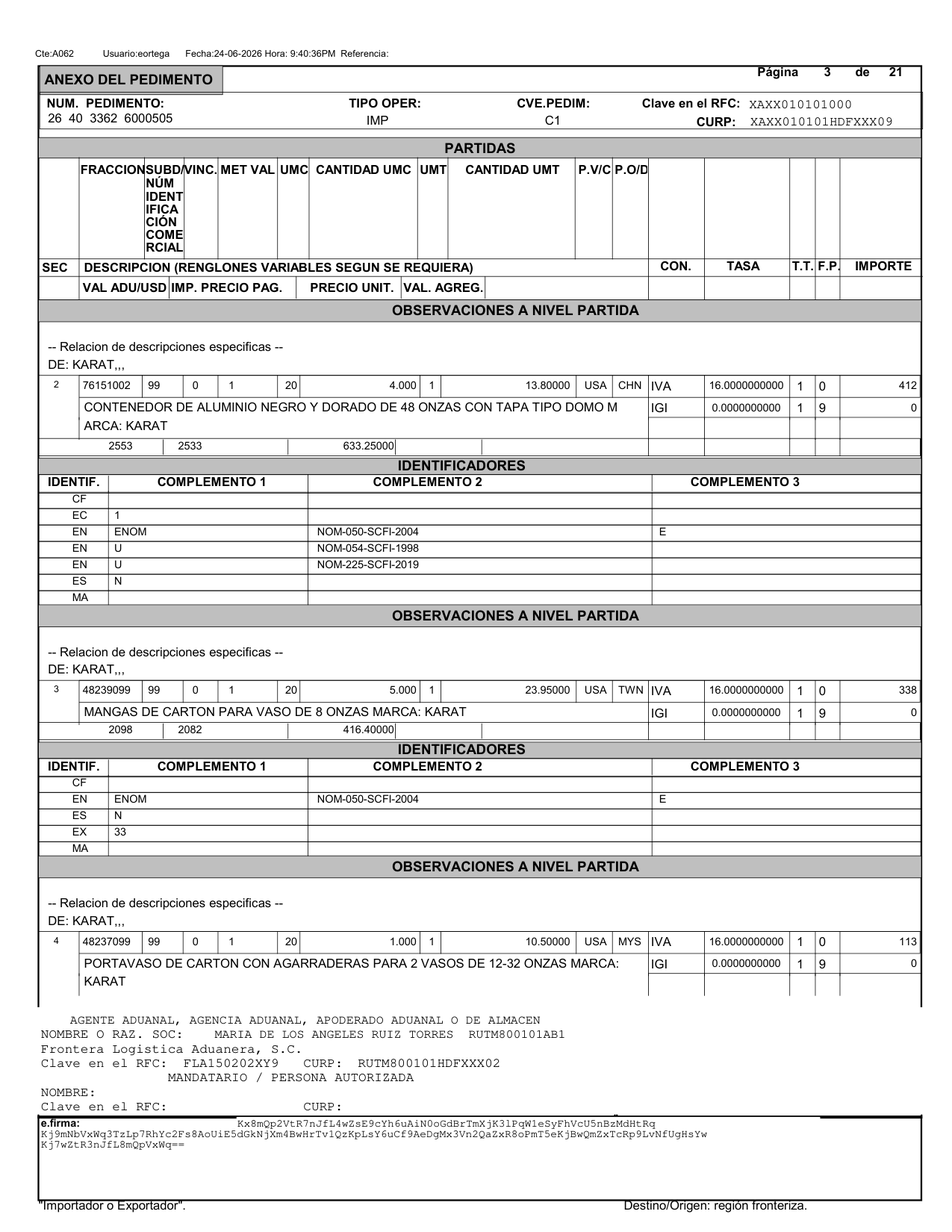
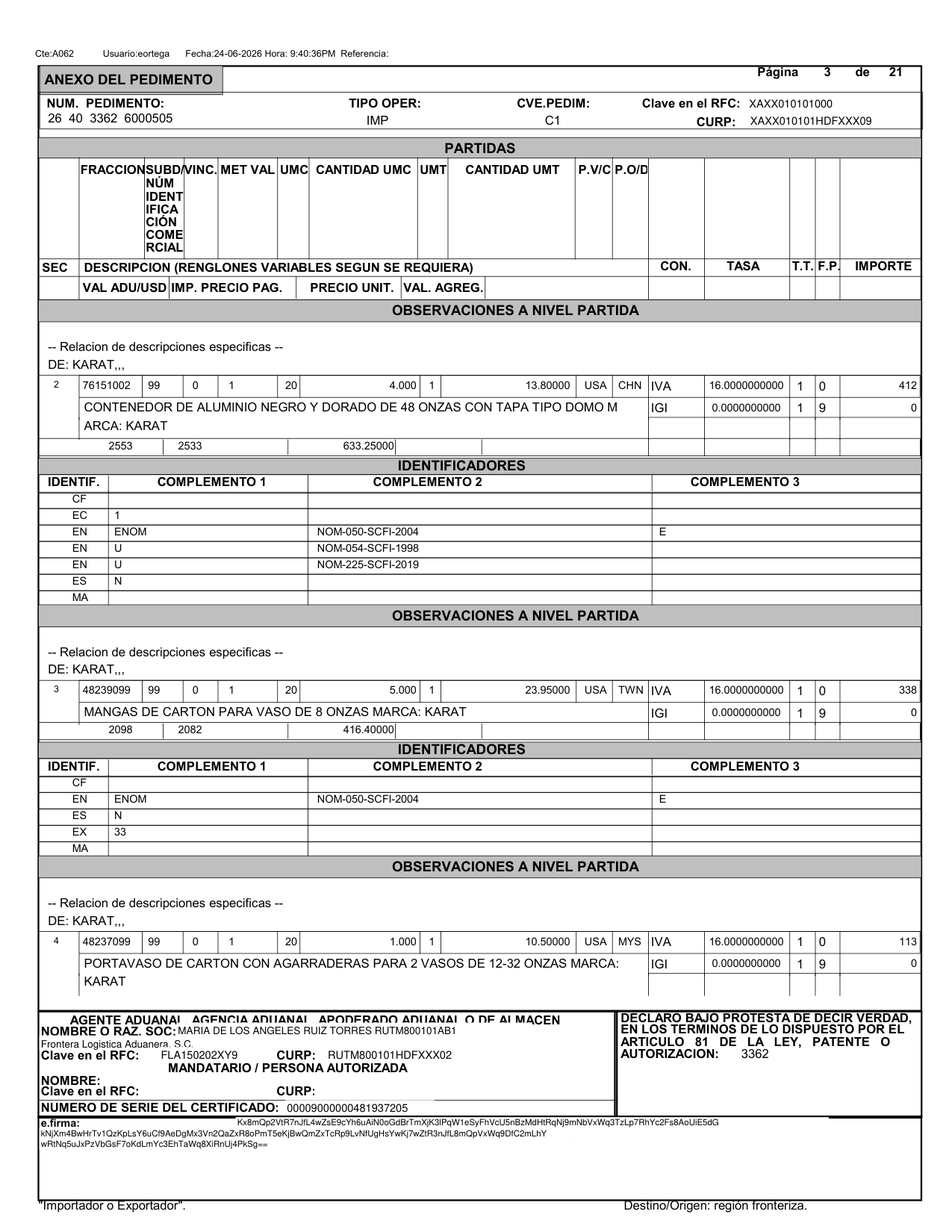
Wire "así lo haces hoy" demo into the landing page and expand it to two pedimento pages
Swaps the old static mockup section for the live AsiLoHacesHoy animation,
adds a second real (redacted) pedimento page with a continuous-scroll
transition and more partidas, removes the fake document-viewer chrome so
the pedimento reads larger and cleaner, slows pacing for a more deliberate
feel, and reworks the section copy to challenge the reader directly. Also
fixes the page 1 pedimento image's footer, which had been retyped in a
mismatched font during redaction — it now matches the surrounding
document's real typography like page 2 does.

Changed region(s): [[0.0306, 0.8036, 0.9788, 0.9582], [0.7953, 0.0618, 0.9176, 0.1236]]

diff --git a/src/components/landing/asi-lo-haces-hoy.tsx b/src/components/landing/asi-lo-haces-hoy.tsx
@@ -13,6 +13,7 @@ interface Partida {
   valor: string;
   claveSat: string;
   claveSatDesc: string;
+  page: 1 | 2;
   box: { x: number; y: number; w: number; h: number };
 }
 
@@ -25,6 +26,7 @@ const PARTIDAS: Partida[] = [
     valor: "212,500.00",
     claveSat: "43222612",
     claveSatDesc: "Equipo de radiocomunicación",
+    page: 1,
     box: { x: 1, y: 30, w: 98, h: 18 },
   },
   {
@@ -35,6 +37,7 @@ const PARTIDAS: Partida[] = [
     valor: "58,200.00",
     claveSat: "31201500",
     claveSatDesc: "Componentes plásticos industriales",
+    page: 1,
     box: { x: 1, y: 55, w: 98, h: 18 },
   },
   {
@@ -45,11 +48,45 @@ const PARTIDAS: Partida[] = [
     valor: "94,750.00",
     claveSat: "42182200",
     claveSatDesc: "Instrumental médico desechable",
+    page: 1,
     box: { x: 1, y: 79, w: 98, h: 9 },
+  },
+  {
+    partida: "5",
+    fraccion: "3917.32.91",
+    descripcion: "Popotes de plástico desechables",
+    cantidad: "150",
+    valor: "48,300.00",
+    claveSat: "24111503",
+    claveSatDesc: "Popotes y pajillas",
+    page: 2,
+    box: { x: 1, y: 39, w: 98, h: 16 },
+  },
+  {
+    partida: "6",
+    fraccion: "3917.32.91",
+    descripcion: "Vasos de plástico para bebidas",
+    cantidad: "220",
+    valor: "31,450.00",
+    claveSat: "24111506",
+    claveSatDesc: "Vasos desechables",
+    page: 2,
+    box: { x: 1, y: 59, w: 98, h: 16 },
+  },
+  {
+    partida: "7",
+    fraccion: "3917.32.91",
+    descripcion: "Tapas para vasos desechables",
+    cantidad: "95",
+    valor: "18,900.00",
+    claveSat: "24111509",
+    claveSatDesc: "Tapas para vasos desechables",
+    page: 2,
+    box: { x: 1, y: 79, w: 98, h: 5 },
   },
 ];
 
-const DWELL_MS = 7000;
+const DWELL_MS = 9000;
 const TRANSITION_MS = 1400;
 
 type Phase = "transitioning" | "dwelling";
@@ -90,23 +127,24 @@ export function AsiLoHacesHoy() {
 
   return (
     <section className="mx-auto max-w-6xl px-6 py-20 md:px-10 md:py-28">
-      <span className="font-mono text-xs uppercase tracking-[0.2em] text-primary">Así lo haces hoy</span>
-      <h2 className="mt-3 max-w-2xl font-sans text-3xl font-black text-foreground md:text-4xl">
-        Un pedimento, tres capturas manuales del mismo dato.
-      </h2>
-      <p className="mt-3 max-w-2xl text-sm text-muted-foreground md:text-base">
-        Copias la partida del PDF a una hoja de cálculo, y de ahí la vuelves a capturar en el
-        sistema de facturación — buscando la clave SAT a mano en cada línea.
-      </p>
+      <div className="mx-auto max-w-2xl text-center">
+        <h2 className="font-sans text-3xl font-black text-foreground md:text-4xl">
+          ¿Cuánto tiempo tardas capturando partidas manualmente?
+        </h2>
+        <p className="mt-3 text-sm text-muted-foreground md:text-base">
+          Y luego tienes que ver si tienen incrementables, calcular el valor de aduana, revisar el
+          tipo de cambio, buscar las claves del SAT... y así con cada partida.
+        </p>
+      </div>
 
-      <div className="mt-12 grid gap-6 lg:grid-cols-3">
-        <div className="h-[380px] md:h-[440px]">
-          <DocumentPanel box={partida.box} />
+      <div className="mt-12 flex flex-col items-center gap-8 lg:flex-row lg:items-stretch lg:justify-center lg:gap-6">
+        <div className="h-[400px] w-[309px] md:h-[480px] md:w-[371px] shrink-0">
+          <DocumentPanel partida={partida} />
         </div>
-        <div className="h-[380px] md:h-[440px]">
+        <div className="h-[400px] w-[320px] md:h-[480px] shrink-0">
           <ExcelPanel stepIndex={stepIndex} phase={phase} />
         </div>
-        <div className="h-[380px] md:h-[440px]">
+        <div className="h-[400px] w-[320px] md:h-[480px] shrink-0">
           <InvoicePanel partida={partida} phase={phase} />
         </div>
       </div>
@@ -114,27 +152,43 @@ export function AsiLoHacesHoy() {
   );
 }
 
-function DocumentPanel({ box }: { box: Partida["box"] }) {
+function DocumentPanel({ partida }: { partida: Partida }) {
   return (
-    <div className="flex h-full flex-col overflow-hidden rounded-lg border border-border bg-card shadow-sm">
-      <div className="flex items-center gap-1.5 border-b border-border bg-muted/60 px-3 py-2">
-        <span className="h-2.5 w-2.5 rounded-full bg-destructive/60" />
-        <span className="h-2.5 w-2.5 rounded-full bg-amber-400/70" />
-        <span className="h-2.5 w-2.5 rounded-full bg-emerald-500/70" />
-        <span className="ml-2 truncate font-mono text-[11px] text-muted-foreground">
-          pedimento.pdf — página 3 de 14
-        </span>
+    <div className="relative h-full overflow-hidden rounded-lg">
+      <div
+        className="flex flex-col transition-transform ease-in-out"
+        style={{
+          height: "200%",
+          transform: `translateY(${partida.page === 1 ? "0%" : "-50%"})`,
+          transitionDuration: `${TRANSITION_MS}ms`,
+        }}
+      >
+        <DocumentPage
+          src="/marketing/pedimento-partidas.png"
+          box={partida.page === 1 ? partida.box : undefined}
+        />
+        <DocumentPage
+          src="/marketing/pedimento-partidas-2.png"
+          box={partida.page === 2 ? partida.box : undefined}
+        />
       </div>
-      <div className="flex flex-1 items-center justify-center overflow-hidden bg-neutral-100 p-3">
-        <div className="relative h-full aspect-[1275/1650]">
-          <Image
-            src="/marketing/pedimento-partidas.png"
-            alt="Página de partidas de un pedimento aduanal"
-            fill
-            className="object-contain"
-            sizes="(max-width: 1024px) 90vw, 30vw"
-            priority
-          />
+    </div>
+  );
+}
+
+function DocumentPage({ src, box }: { src: string; box?: Partida["box"] }) {
+  return (
+    <div className="flex flex-1 items-center justify-center">
+      <div className="relative h-full aspect-[1275/1650]">
+        <Image
+          src={src}
+          alt="Página de partidas de un pedimento aduanal"
+          fill
+          className="object-contain rounded-sm shadow-xl ring-1 ring-black/10"
+          sizes="(max-width: 1024px) 90vw, 45vw"
+          priority
+        />
+        {box && (
           <div
             className="absolute rounded-md border-2 border-primary bg-primary/10 transition-[top,left,width,height] duration-[1400ms] ease-in-out"
             style={{
@@ -150,7 +204,7 @@ function DocumentPanel({ box }: { box: Partida["box"] }) {
               fill="white"
             />
           </div>
-        </div>
+        )}
       </div>
     </div>
   );
@@ -292,6 +346,9 @@ function InvoicePanel({ partida, phase }: { partida: Partida; phase: Phase }) {
     }
 
     async function run() {
+      await wait(1000);
+      if (cancelled) return;
+
       setActiveField("descripcion");
       await type(setDescripcion, partida.descripcion, 75);
       if (cancelled) return;
@@ -311,6 +368,9 @@ function InvoicePanel({ partida, phase }: { partida: Partida; phase: Phase }) {
 
       setActiveField("cantidad");
       await type(setCantidad, partida.cantidad, 200);
+      if (cancelled) return;
+
+      await wait(800);
       if (cancelled) return;
 
       setActiveField("precio");

diff --git a/src/components/landing/landing-page.tsx b/src/components/landing/landing-page.tsx
@@ -2,7 +2,7 @@ import Link from "next/link";
 import { Building2, FileText, ScanLine, ShieldCheck, Table2, Zap } from "lucide-react";
 import { NeurocrowLockup } from "@/components/neurocrow-lockup";
 import { DemoUploader } from "@/components/landing/demo-uploader";
-import { ScrollStamp } from "@/components/landing/scroll-stamp";
+import { AsiLoHacesHoy } from "@/components/landing/asi-lo-haces-hoy";
 
 const TICKER_ITEMS = [
   "8471.30.01 EQUIPO DE CÓMPUTO PORTÁTIL",
@@ -11,13 +11,6 @@ const TICKER_ITEMS = [
   "8517.62.01 APARATOS DE TELECOMUNICACIÓN",
   "3926.90.99 MANUFACTURAS DE PLÁSTICO",
   "8708.99.99 PARTES Y ACCESORIOS DE VEHÍCULOS",
-];
-
-const DEMO_ROWS = [
-  { partida: "1", fraccion: "8471.30.01", descripcion: "Laptops de uso comercial", cantidad: "120" },
-  { partida: "2", fraccion: "8517.62.01", descripcion: "Módulos de telecomunicación", cantidad: "340" },
-  { partida: "3", fraccion: "3926.90.99", descripcion: "Componentes plásticos moldeados", cantidad: "600" },
-  { partida: "4", fraccion: "9018.90.99", descripcion: "Instrumental médico desechable", cantidad: "85" },
 ];
 
 const STEPS = [
@@ -143,62 +136,7 @@ export function LandingPage() {
 
       <Perforation label="Original — agente aduanal · conserve para sus registros" />
 
-      {/* ── Producto en acción ───────────────────────────────────── */}
-      <section className="mx-auto max-w-6xl px-6 py-20 md:px-10 md:py-28">
-        <span className="font-mono text-xs uppercase tracking-[0.2em] text-primary">Cómo se ve</span>
-        <h2 className="mt-3 max-w-2xl font-sans text-3xl font-black text-foreground md:text-4xl">
-          Lo que antes capturabas a mano, ahora se extrae solo.
-        </h2>
-
-        <div className="mt-12 grid items-start gap-8 lg:grid-cols-2">
-          <div className="relative rounded-lg border border-border bg-card p-6">
-            <span className="font-mono text-[11px] uppercase tracking-wide text-muted-foreground">
-              pedimento.pdf · 14 páginas
-            </span>
-            <div className="relative mt-5 h-72">
-              <div className="absolute inset-0 rotate-[-2deg] rounded-md border border-border bg-background p-4 shadow-sm" />
-              <div className="absolute inset-0 rotate-[1deg] rounded-md border border-border bg-background p-4 shadow-sm" />
-              <div className="absolute inset-0 flex flex-col gap-2.5 rounded-md border border-border bg-background p-5">
-                {Array.from({ length: 11 }).map((_, i) => (
-                  <div
-                    key={i}
-                    className="h-2 rounded-full bg-muted"
-                    style={{ width: `${65 + ((i * 13) % 30)}%` }}
-                  />
-                ))}
-              </div>
-            </div>
-          </div>
-
-          <div className="rounded-lg border border-border bg-sidebar p-6 text-white">
-            <div className="grid grid-cols-[2rem_5.5rem_1fr_3.5rem] gap-3 border-b border-white/10 pb-2 font-mono text-[10px] uppercase tracking-wide text-white/40">
-              <span>#</span>
-              <span>Fracción</span>
-              <span>Descripción</span>
-              <span className="text-right">Cant.</span>
-            </div>
-            <div className="mt-1 flex flex-col">
-              {DEMO_ROWS.map((row, i) => (
-                <ScrollStamp
-                  key={row.partida}
-                  delayMs={i * 150}
-                  className="grid grid-cols-[2rem_5.5rem_1fr_3.5rem] items-center gap-3 border-b border-white/5 py-2.5 last:border-b-0"
-                >
-                  <span className="font-mono text-xs text-white/50">{row.partida}</span>
-                  <span className="font-mono text-xs text-primary">{row.fraccion}</span>
-                  <span className="truncate text-sm text-white/80">{row.descripcion}</span>
-                  <span className="text-right font-mono text-xs text-white/60">{row.cantidad}</span>
-                </ScrollStamp>
-              ))}
-            </div>
-            <div className="mt-4 flex justify-end">
-              <span className="rotate-[-4deg] rounded border border-primary/50 px-2 py-1 font-mono text-[10px] font-bold tracking-wide text-primary">
-                FACTURA GENERADA ✓
-              </span>
-            </div>
-          </div>
-        </div>
-      </section>
+      <AsiLoHacesHoy />
 
       <Perforation label="Copia — control interno" />
 

diff --git a/fresh-agent-prompt-asi-lo-haces-hoy-v2.md b/fresh-agent-prompt-asi-lo-haces-hoy-v2.md
@@ -1,0 +1,86 @@
+# Task: Level up the "Así lo haces hoy" pain-point section on the Neurocrow Pedimentos landing page
+
+## Where things live
+
+- Repo: `/home/rodrigo/code/pedimentosV2` — a Next.js (App Router, TypeScript, Tailwind v4) app for Mexican customs brokers.
+- **Read `AGENTS.md` in the repo root first.** This project intentionally runs a non-stock Next.js build — check `node_modules/next/dist/docs/` before assuming any API behaves like the Next.js you know.
+- The component to edit: `src/components/landing/asi-lo-haces-hoy.tsx` (exports `AsiLoHacesHoy`).
+- It's wired into the public landing page at `src/components/landing/landing-page.tsx`, rendered as `<AsiLoHacesHoy />` between the hero and the "Cómo funciona" section. That call site sits in a plain `<div>` with no ambient width constraint — the section's own `mx-auto max-w-6xl px-6 md:px-10` on its root `<section>` is the only thing constraining its width, so trimming that is sufficient to go wider.
+- The landing page is served at `/` and is **already public** (no auth) per `src/proxy.ts`'s `isPublicRoute` matcher — you don't need to add any preview route, just run `npm run dev` and hit `http://localhost:3000/`.
+- Global styles/tokens: `src/app/globals.css` (Tailwind v4 `@theme inline`, oklch color tokens — burnt-orange `--primary`, dark navy `--sidebar`, etc.). Reuse these; don't invent a new palette. This file also already has two keyframes this component depends on: `.nc-cell-paste` (Excel paste flash) and `.nc-caret` (blinking text-typing caret). Add more `nc-`-prefixed keyframes there if you need new ones, following the existing pattern (grouped under a `/* ── ... ── */` header comment).
+
+## What the component currently does (read the file — this is just orientation)
+
+Three panels side by side, each driven by one shared timeline (`useTimeline()`, a `stepIndex`/`phase` state machine that cycles through a `PARTIDAS` fixture array with a `TRANSITION_MS` move + `DWELL_MS` dwell per item):
+
+1. **`DocumentPanel`** — a real redacted pedimento page image (`/public/marketing/pedimento-partidas.png`, 1275×1650px, real document with dummy PII) inside what's *currently* a fake "document viewer" chrome (a title-bar strip with 3 traffic-light dots + a filename label), with an animated orange highlight box cycling over 3 partida regions (coordinates as % of image size, stored per-partida in `PARTIDAS[i].box`).
+2. **`ExcelPanel`** — a CSS-recreated Excel sheet; cursor moves to the next row, whole row "paste-flashes" in sync with panel 1's dwell.
+3. **`InvoicePanel`** — a recreated generic invoicing form; typewriter-fills Descripción, opens a fake SAT-code lookup dropdown and "selects" a result, then types Cantidad and Precio Unitario, flashes "GUARDADO ✓", then clears for the next partida.
+
+Everything resets/re-fills in lockstep off the same `phase`/`stepIndex`, driven by `async` `useEffect` chains using a local `wait(ms)` helper (plain `setTimeout` Promise).
+
+## Requested changes (from the person who owns this, verbatim intent below — implement all of them)
+
+### 1. Strip the fake "document viewer" chrome from the pedimento panel, and make it bigger
+Right now the real pedimento image sits inside a fake little app window (rounded card, header bar with 3 colored dots + "pedimento.pdf — página 3 de 14" label) — like a mockup of a mockup. Get rid of that framing. The pedimento image itself should be the star: no enclosing "app window" chrome. A subtle drop-shadow or thin border directly on the image/paper edge is fine if you want it to read as a distinct sheet of paper, but no title bar / traffic lights / filename strip.
+
+Reclaim that vertical space (and any extra width freed up by item 2 below) to make the pedimento **noticeably larger** than it is now. Don't be timid about it — this is the "reference document" the whole scene revolves around, it should be easy to actually read the partida text on it.
+
+### 2. Remove the section's horizontal margins so there's room to make everything bigger
+The section root currently has `mx-auto max-w-6xl px-6 md:px-10` — same constraint used by every other section on the page. For *this* section specifically, don't be afraid to drop that constraint (go closer to full-bleed / edge-to-edge, or at least a much wider max-width) so the three panels — especially the pedimento — have more horizontal room. Check how it looks against the sections above/below it (which do keep the `max-w-6xl` treatment) and make sure the transition doesn't look like a layout bug — e.g. you may want to keep a small fixed padding (`px-4` or `px-6`) at the true viewport edge even if you drop `max-w-6xl`, purely so content doesn't touch the browser edge on wide screens.
+
+You have latitude here to also revisit the fixed panel heights (`h-[380px] md:h-[440px]`) and the equal 3-column split (`lg:grid-cols-3`) if giving the pedimento a larger share of the width (e.g. a wider first column) serves the "make the pedimento big and legible" goal better. Use your judgment — the goal is impact and legibility, not preserving the exact current grid.
+
+### 3. Add a second real pedimento page + a scroll transition to it, with more partidas
+Currently there's one document image with 3 partida regions (`PARTIDAS[0..2].box`, all within `pedimento-partidas.png`). The ask: after the animation finishes highlighting/capturing the partidas on page 1, play a **scrolling transition** (like scrolling down through a continuous PDF, not a page-flip/cut) that moves the view down to a **second pedimento page** with more partidas — and the Excel sheet keeps filling with additional rows sourced from that second page.
+
+**The second-page asset is already prepared — it's not a blocker.** `public/marketing/pedimento-partidas-2.png` (1275×1650px, same dimensions as the first) is page 4 of the same real source pedimento as `pedimento-partidas.png` (which is page 3 of `public/pedimentos/6000505 PAGADO.pdf`), with the same PII-redaction treatment applied (real RFC/CURP/agent-name/e.firma text replaced in the PDF text layer with the *same* fake identity already used on page 1 — "MARIA DE LOS ANGELES RUIZ TORRES" / "Frontera Logistica Aduanera, S.C." / "XAXX010101000" etc. — so it reads as a continuous, consistent fake document across both pages, not two unrelated documents). It shows 3 more real partidas (SEC 5, 6, 7 — drinking-straw/cup items, fracción `39173291`). Verify it yourself (open the PNG) before wiring it up, and nudge the box coordinates below by eye if they're off — they were estimated from the source PDF's text-layer y-positions, not pixel-measured against the final render:
+
+| Partida | Box (x%, y%, w%, h%) |
+|---|---|
+| 5 | `1%, 35%, 98%, 19%` |
+| 6 | `1%, 54%, 98%, 19%` |
+| 7 | `1%, 73%, 98%, 9%` |
+
+For the accompanying Excel/invoice fixture data for these 3 new items, either invent plausible values in the same style as the existing 3 (they don't need to literally match the real fracción/descripción visible in the image — the existing 3 don't either, e.g. `PARTIDAS[0]` shows "Módulos de telecomunicación" as invented Excel/invoice fixture text while the real image underneath is actually about aluminum containers, and nobody's meant to cross-reference them at a glance), or lean into the real theme of page 2 (drinking straws/cups, fracción `39173291`) for a nicer touch — your call.
+
+Implementation-wise: extend the `PARTIDAS` fixture with a `page: 1 | 2` field per item, add the 3 new entries with the page-2 boxes above, and implement the scroll transition in `DocumentPanel` — e.g. an `overflow-hidden` viewport with the two page images stacked vertically in a column, translated via `transform: translateY(...)` (CSS transition, matching the existing `duration-[Nms] ease-in-out` pattern already used for the highlight box) so it reads as continuous scrolling, not a swap, triggered when the active partida's `page` changes from 1 to 2. `ExcelPanel`'s row rendering already iterates `PARTIDAS` generically for the "filled" rows — you'll mostly need to make its trailing empty-row count and any hardcoded assumptions (e.g. the `[0,1,2].map(...)` extra blank rows, sized for exactly 3 items) scale sanely with a 6-item list instead of being hardcoded, and probably increase the panel height a bit so 6 filled rows don't cramp.
+
+If you genuinely need a *third* page or more partidas than what's provided, don't fabricate one yourself — stop and ask, same reasoning as above (real document, not a recreation). But for this task, 2 pages / 6 partidas total is the ask.
+
+### 4. Slow down / add breathing room at two specific spots in the timeline
+Right now `ExcelPanel` pastes its row and `InvoicePanel` starts typing at the *same instant* — both keyed off `phase` flipping to `"dwelling"`. That's too mechanical. Wanted:
+- **~1 extra second of pause between "the Excel paste finishes" and "typing starts in the sistema de facturación."** Concretely: in `InvoicePanel`'s effect (the one that runs `async function run()` when `phase === "dwelling"`), add a `await wait(1000)` (or similar) at the very start, before `setActiveField("descripcion")`, so it reads as "finished pasting into Excel, now switching over to the invoicing software."
+- **A longer pause specifically between finishing "Cantidad" and starting "Precio Unitario"** in that same sequence — currently it goes straight from the last `await type(setCantidad, ...)` char into `setActiveField("precio")` with no gap. Add an explicit `await wait(...)` (something like 700–1000ms) between them, like someone pausing to check something (fits nicely with the new copy below, which mentions checking tipo de cambio / calculating value — thematically this could *be* that pause).
+- **Budget check, don't just add the waits blindly:** `InvoicePanel`'s whole typed sequence must finish (including the "GUARDADO ✓" flash) *before* `phase` flips away from `"dwelling"` back to `"transitioning"` (that's `DWELL_MS`, currently `7000`), otherwise it'll get cut off mid-type when the effect's cleanup fires. Compute the worst-case total (longest `descripcion` string × its `msPerChar`, plus all the SAT-lookup waits, plus cantidad/precio typing, plus your two new pauses) and bump `DWELL_MS` if needed so there's still a few hundred ms of margin left for the saved-flash to actually be visible. Also remember `TRANSITION_MS` and `DWELL_MS` are read by `useTimeline` and also hardcoded in two `duration-[1400ms]` Tailwind classes (the highlight box in `DocumentPanel` and the cursor in `ExcelPanel`) — keep those in sync with `TRANSITION_MS` if you change it.
+
+### 5. Rewrite the section heading/subhead to challenge the reader
+Current copy:
+```
+Un pedimento, tres capturas manuales del mismo dato.
+```
+```
+Copias la partida del PDF a una hoja de cálculo, y de ahí la vuelves a capturar en el
+sistema de facturación — buscando la clave SAT a mano en cada línea.
+```
+Wanted direction (paraphrase these into copy that matches the site's existing voice — direct, a little wry, e.g. compare to the hero's "...antes de que se enfríe el café" or the CTA's "Deja de capturar pedimentos a mano."):
+- Headline should be a direct question challenging the reader, roughly: "¿Cuánto tiempo tardas capturando partidas manualmente?"
+- Subhead should pile on the tedious extra work involved, roughly: "Y luego tienes que ver si tienen incrementables, calcular el valor de aduana, revisar el tipo de cambio, buscar las claves del SAT... y así con cada partida." — feel free to polish the exact wording, just keep the "and then there's ALSO this, and this, and this" escalating-annoyance feel.
+- Leave the small eyebrow label above the heading ("ASÍ LO HACES HOY") as-is — it still fits.
+
+## Constraints / house style
+- TypeScript, Tailwind, App Router conventions already used in this file — match them (see `cn()` from `@/lib/utils`, the `nc-`-prefixed CSS class naming convention in `globals.css`, the existing `Field`/`Caret` helper components at the bottom of the file).
+- No backend/data fetching — everything is client-side, hardcoded fixture data, exactly as it is now.
+- Motion stays CSS-transition or `requestAnimationFrame`/`setTimeout`-driven — no video/canvas library.
+- Don't touch unrelated sections of `landing-page.tsx` or other panels' internals beyond what's needed to support the above.
+
+## Verification
+1. `npx tsc --noEmit -p tsconfig.json` — should show no new errors in `asi-lo-haces-hoy.tsx` or `landing-page.tsx` (there are pre-existing, unrelated type errors under `remotion-demos/` in this repo — ignore those, they're not yours).
+2. `npm run dev`, then load `http://localhost:3000/` (public route, no login needed) and actually watch at least one full loop of the animation (it's long now — several seconds per partida — so be patient) to confirm:
+   - the pedimento reads as a plain, large document image with no fake window chrome,
+   - the section visibly uses more horizontal width than the sections above/below it (but doesn't look broken/edge-glued),
+   - the new pacing feels deliberate rather than instant/robotic at the two spots called out in item 4,
+   - the new headline/subhead copy is in place,
+   - (if you implemented item 3) the scroll-to-page-2 transition actually reads as continuous scrolling and the Excel sheet keeps gaining rows from page 2's partidas.
+3. If you have a way to capture a screenshot or short recording of it running (Playwright is not installed in this repo's own `node_modules`, but a couple of sibling repos on this machine have it — e.g. `~/code/aquilles/node_modules/playwright` — you can drop a throwaway `.mjs` script into one of those directories and run it from there with plain `node` to work around ESM resolution; clean the script up afterward), use it — a screenshot beats "I think it looks right."
+4. Do **not** commit or push. Leave the changes for review, and give a clear written summary of what you changed and what you decided on your own judgment (e.g. exact copy wording, exact pixel/rem sizes chosen, exact fixture data for the 3 new partidas, any nudges you made to the page-2 box coordinates).
